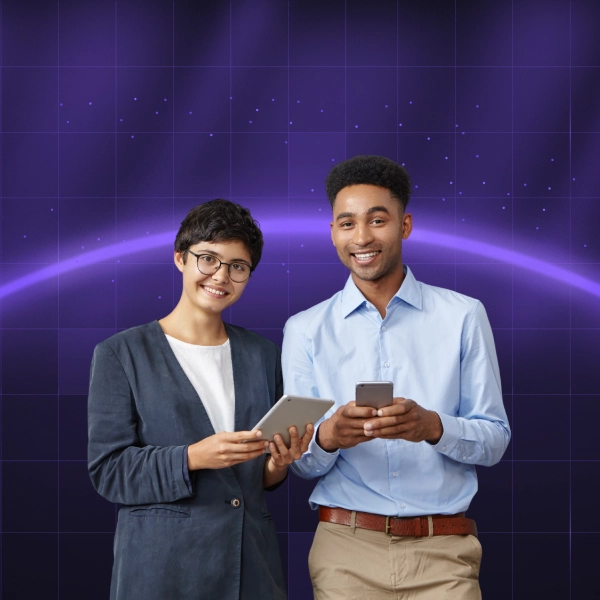
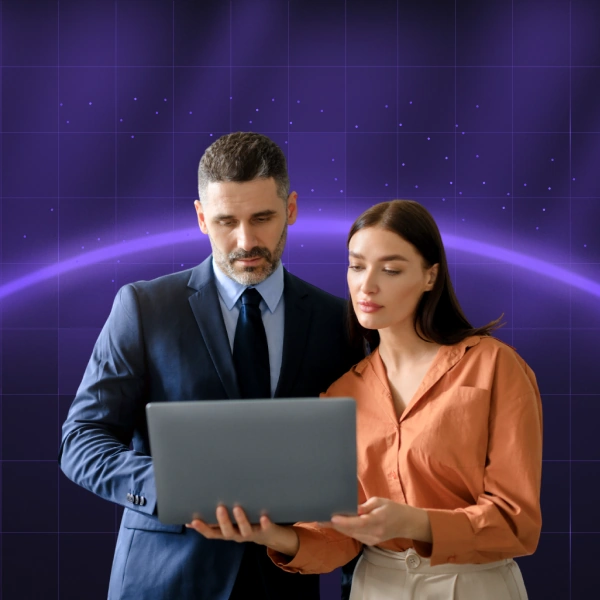
..

diff --git a/app/Views/services/seo-services-company-in-dubai.php b/app/Views/services/seo-services-company-in-dubai.php
@@ -2,10 +2,10 @@
     <div class="banner-overlay">
         <div class="hero-content">
 
-            <h1 class="mb-3 text-white">SEO AGENCY IN DUBAI <br>FOR GROWTH, VISIBILITY & SALES</h1>
+            <h1 class="mb-3 text-white">SEO Agency Dubai With <br>Proven Local SEO Expertise</h1>
 
             <p class="hero-desc">
-                Reach Google’s top spot in Dubai with our SEO services and stay there long-term, dominating your competition.
+                Reach the top of Google in Dubai and dominate with our SEO strategies built for lasting impact.
             </p>
 
             <div class="quote-dropdown-wrapper">
@@ -35,6 +35,73 @@
                 consistent organic growth, and measurable business impact for brands across <strong>Dubai and the UAE</strong>.
             </p>
 
+        </div>
+    </div>
+</section>
+<section class="seo-marquee">
+    <div class="seo-marquee-wrapper">
+        <div class="seo-marquee-track">
+
+            <a href="/on-page-seo-dubai" class="seo-marquee-item">On-Page SEO</a>
+            <span class="seo-marquee-sep text-white">يلا</span>
+
+            <a href="/off-page-seo-dubai" class="seo-marquee-item">Off-Page SEO</a>
+            <span class="seo-marquee-sep text-white">يلا</span>
+
+            <a href="/technical-seo-dubai" class="seo-marquee-item">Technical SEO</a>
+            <span class="seo-marquee-sep text-white">يلا</span>
+
+            <a href="/keyword-research-dubai" class="seo-marquee-item">Keyword Research</a>
+            <span class="seo-marquee-sep text-white">يلا</span>
+
+            <a href="/content-marketing-agency-dubai" class="seo-marquee-item">Content Marketing</a>
+            <span class="seo-marquee-sep text-white">يلا</span>
+
+            <a href="/seo-services-company-in-dubai" class="seo-marquee-item">Local SEO</a>
+            <span class="seo-marquee-sep text-white">يلا</span>
+
+            <a href="/seo-services-company-in-dubai" class="seo-marquee-item">Mobile SEO</a>
+            <span class="seo-marquee-sep text-white">يلا</span>
+
+            <a href="/seo-audit-services-in-dubai" class="seo-marquee-item">SEO Audit</a>
+            <span class="seo-marquee-sep text-white">يلا</span>
+
+            <a href="/seo-services-company-in-dubai" class="seo-marquee-item">Analytics & Reporting</a>
+            <span class="seo-marquee-sep text-white">يلا</span>
+
+        </div>
+    </div>
+</section>
+
+<section class="performance-driven sp-50 dm-bg">
+    <div class="container">
+        <h2 class="text-white mb-lg-5 mb-4 text-md-start text-center">Rank Higher. Attract Leads.
+            <span class="db">Grow Faster with SEO in Dubai</span>
+        </h2>
+        <div class="row">
+            <div class="col-lg-6">
+
+
+                <div class="position-relative mb-lg-0 mb-3 d-lg-block d-none w-100 radius-20">
+                    <img class="w-100 radius-20" src="<?= base_url('/assets/images/new-seo/seo-experts-dubai-1.webp') ?>" alt="Best SEO Agency in Dubai">
+                </div>
+
+                <div class="position-relative img-fluid radius-20 mb-lg-0 mb-3 d-lg-none d-block">
+                    <img class="img-fluid radius-20" src="<?= base_url('/assets/images/new-seo/seo-experts-dubai-2.webp') ?>" alt="SEO Marketing Agency in Dubai">
+                </div>
+            </div>
+
+
+            <div class="col-lg-6 align-self-center">
+                <ul class="mb-0">
+                    <li class="text-white mb-3 fs-20">Take your business to the new heights with the BEST SEO Dubai agency, turning Google’s first page ranking into your permanent address. We are a professional team of <b>100+ experts</b> based in Dubai, offering SEO services in Dubai and the UAE for <b>12+ years</b>, <b>serving 400+ clients</b> in the region.</li>
+                    <li class="text-white mb-3 fs-20">We are among the most trusted SEO companies in Dubai delivering lasting digital dominance for businesses. Since 2012, we have generated millions of revenue for our clients by ranking their website for the most competitive keywords on Google. </li>
+
+                    <li class="text-white mb-3 fs-20">Our SEO services are trusted by top-tier businesses in Dubai. At BrandStory, we put your business first, creating data-driven SEO strategies that make your brand shine above the competition. We don’t simply optimize websites, we engineer high-visibility search experiences that attract, engage, and convert the right audience. Let's turn your online presence into your strongest competitive advantage.</li>
+                </ul>
+                <a href="/about" class="Performance-Driven-btn mb-5 " bis_skin_checked="1">➤ Know About Us</a>
+
+            </div>
         </div>
     </div>
 </section>
@@ -421,38 +488,7 @@
 ?>
 
 
-<section class="performance-driven sp-50 dm-bg">
-    <div class="container">
-        <h2 class="text-white mb-lg-5 mb-4 text-md-start text-center">Rank Higher. Attract Leads.
-            <span class="db">Grow Faster with SEO in Dubai</span>
-        </h2>
-        <div class="row">
-            <div class="col-lg-6">
 
-
-                <div class="position-relative mb-lg-0 mb-3 d-lg-block d-none w-100 radius-20">
-                    <img class="w-100 radius-20" src="<?= base_url('/assets/images/new-seo/seo-experts-dubai-1.webp') ?>" alt="Best SEO Agency in Dubai">
-                </div>
-
-                <div class="position-relative img-fluid radius-20 mb-lg-0 mb-3 d-lg-none d-block">
-                    <img class="img-fluid radius-20" src="<?= base_url('/assets/images/new-seo/seo-experts-dubai-2.webp') ?>" alt="SEO Marketing Agency in Dubai">
-                </div>
-            </div>
-
-
-            <div class="col-lg-6 align-self-center">
-                <ul class="mb-0">
-                    <li class="text-white mb-3 fs-20">Take your business to the new heights with the BEST SEO Dubai agency, turning Google’s first page ranking into your permanent address. We are a professional team of <b>100+ experts</b> based in Dubai, offering SEO services in Dubai and the UAE for <b>12+ years</b>, <b>serving 400+ clients</b> in the region.</li>
-                    <li class="text-white mb-3 fs-20">We are among the most trusted SEO companies in Dubai delivering lasting digital dominance for businesses. Since 2012, we have generated millions of revenue for our clients by ranking their website for the most competitive keywords on Google. </li>
-
-                    <li class="text-white mb-3 fs-20">Do you need proof? Check the latest <a href="/case-study/" style="color:white; text-decoration:none; border-bottom:1px solid #b180ff"><b>client success stories</b></a>. Our SEO services are trusted and proudly recognized by top-tier businesses in Dubai. At BrandStory, we put your business first, creating data-driven SEO strategies that make your brand shine above the competition. We don’t simply optimize websites, we engineer high-visibility search experiences that attract, engage, and convert the right audience.</li>
-                </ul>
-                <a href="/about" class="Performance-Driven-btn mb-5 " bis_skin_checked="1">➤ Know About Us</a>
-
-            </div>
-        </div>
-    </div>
-</section>
 
 <section class="new-client-section">
     <div class="container-fluid">

diff --git a/app/Views/others-pages/digital-marketing-agency-in-abu-dhabi.php b/app/Views/others-pages/digital-marketing-agency-in-abu-dhabi.php
@@ -16,7 +16,7 @@
             <div class="row">
                 <div class="col-lg-6">
                     <div class="position-relative mb-lg-0 mb-3 d-lg-block d-none w-100 radius-20">
-                        <img class="w-100 radius-20" src="<?= base_url('/assets/images/about-abu-dhabi.webp') ?>" alt="Digital Marketing Agency in Abu Dhabi">
+                        <img class="w-100 radius-20" src="<?= base_url('/assets/images/about-abu-dhabi-1.webp') ?>" alt="Digital Marketing Agency in Abu Dhabi">
                     </div>
 
                     <div class="position-relative img-fluid radius-20 mb-lg-0 mb-3 d-lg-none d-block">
@@ -30,9 +30,9 @@
                     <ul class="mb-0">
                         <li class="text-white mb-2 fs-20">BrandStory has been delivering digital marketing and growth engineering services to clients across Dubai and the UAE since 2014. With an expert team of digital marketers, we power up global brands through search engine optimization, Google Ads and Bing Ads, Social Media, influencer marketing, website design and development services.</li>
                         <li class="text-white fs-20">Our expertise spans SEO, PPC, social media marketing, online reputation management, content strategy, email marketing, branding, and website development. Our goal is improving your business visibility, increasing qualified traffic, and converting engagement into real business value. At BrandStory, we skip shortcuts and deeply study Abu Dhabi’s industry landscape, audience behavior, and competition to create digital campaigns that resonate locally.</li>
-                    </ul>
+                    </ul><br>
 
-
+                    <a href="/about" class="Performance-Driven-btn mb-5 " bis_skin_checked="1">➤ Know About Us</a>
                 </div>
             </div>
         </div>
